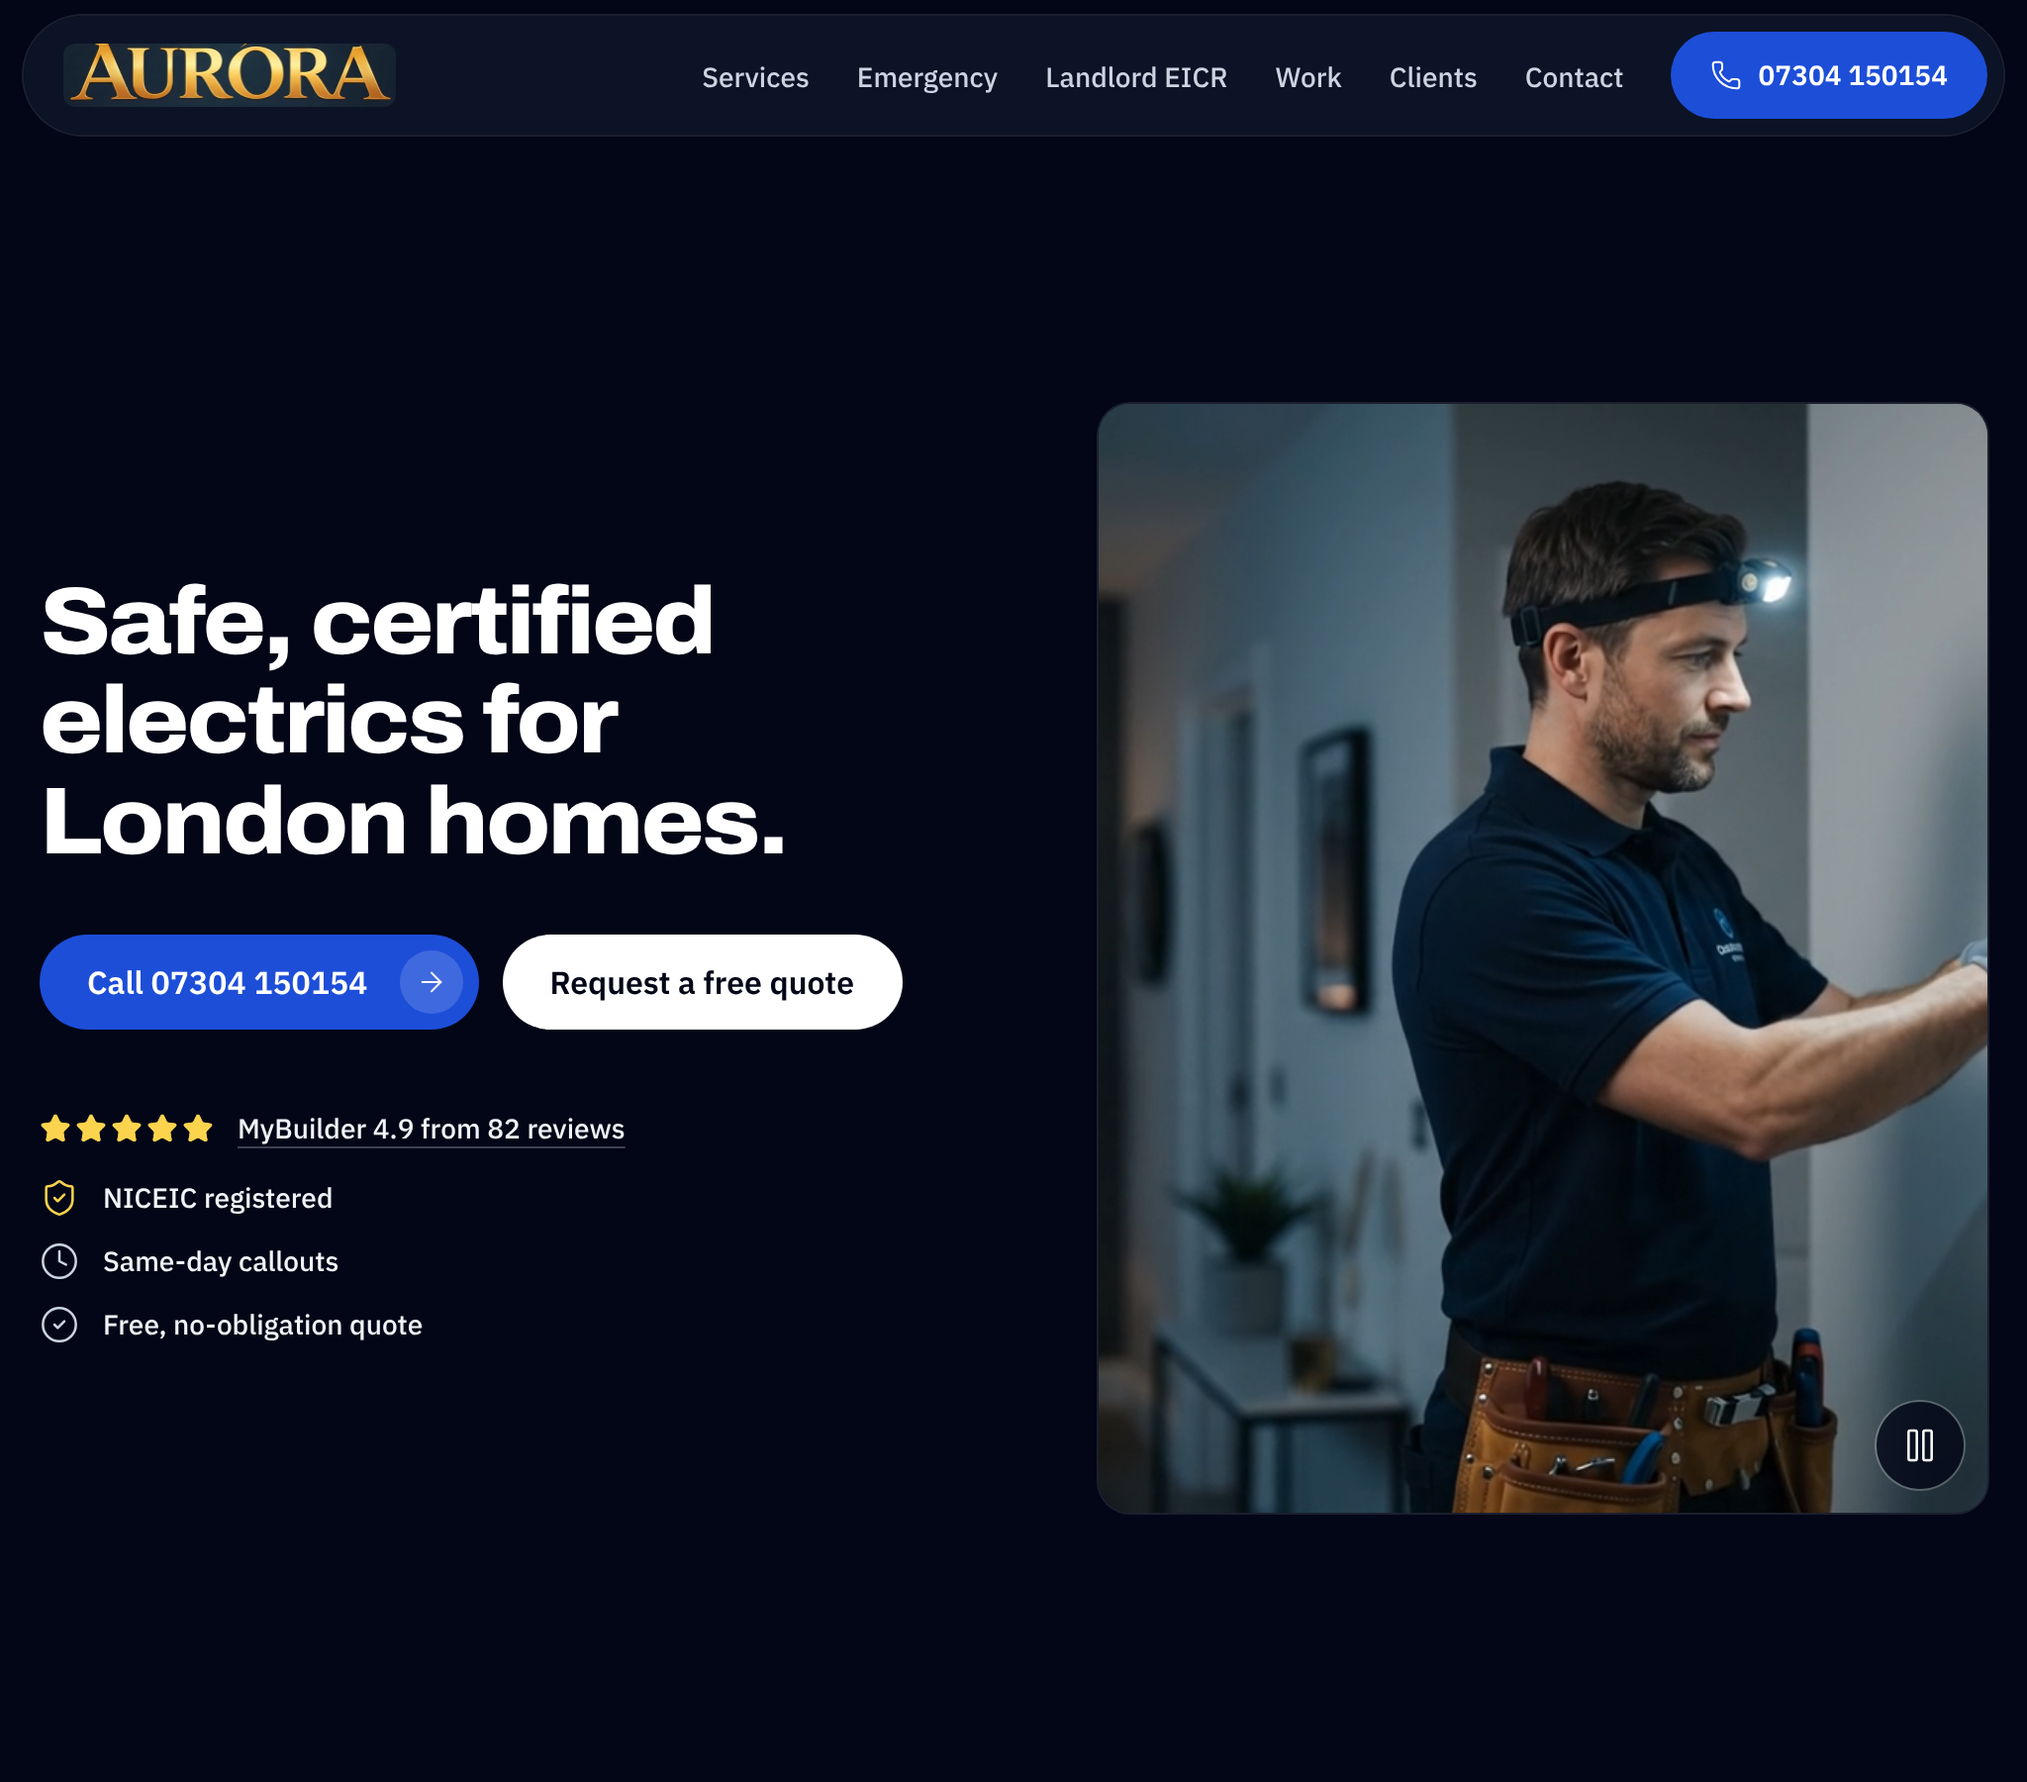
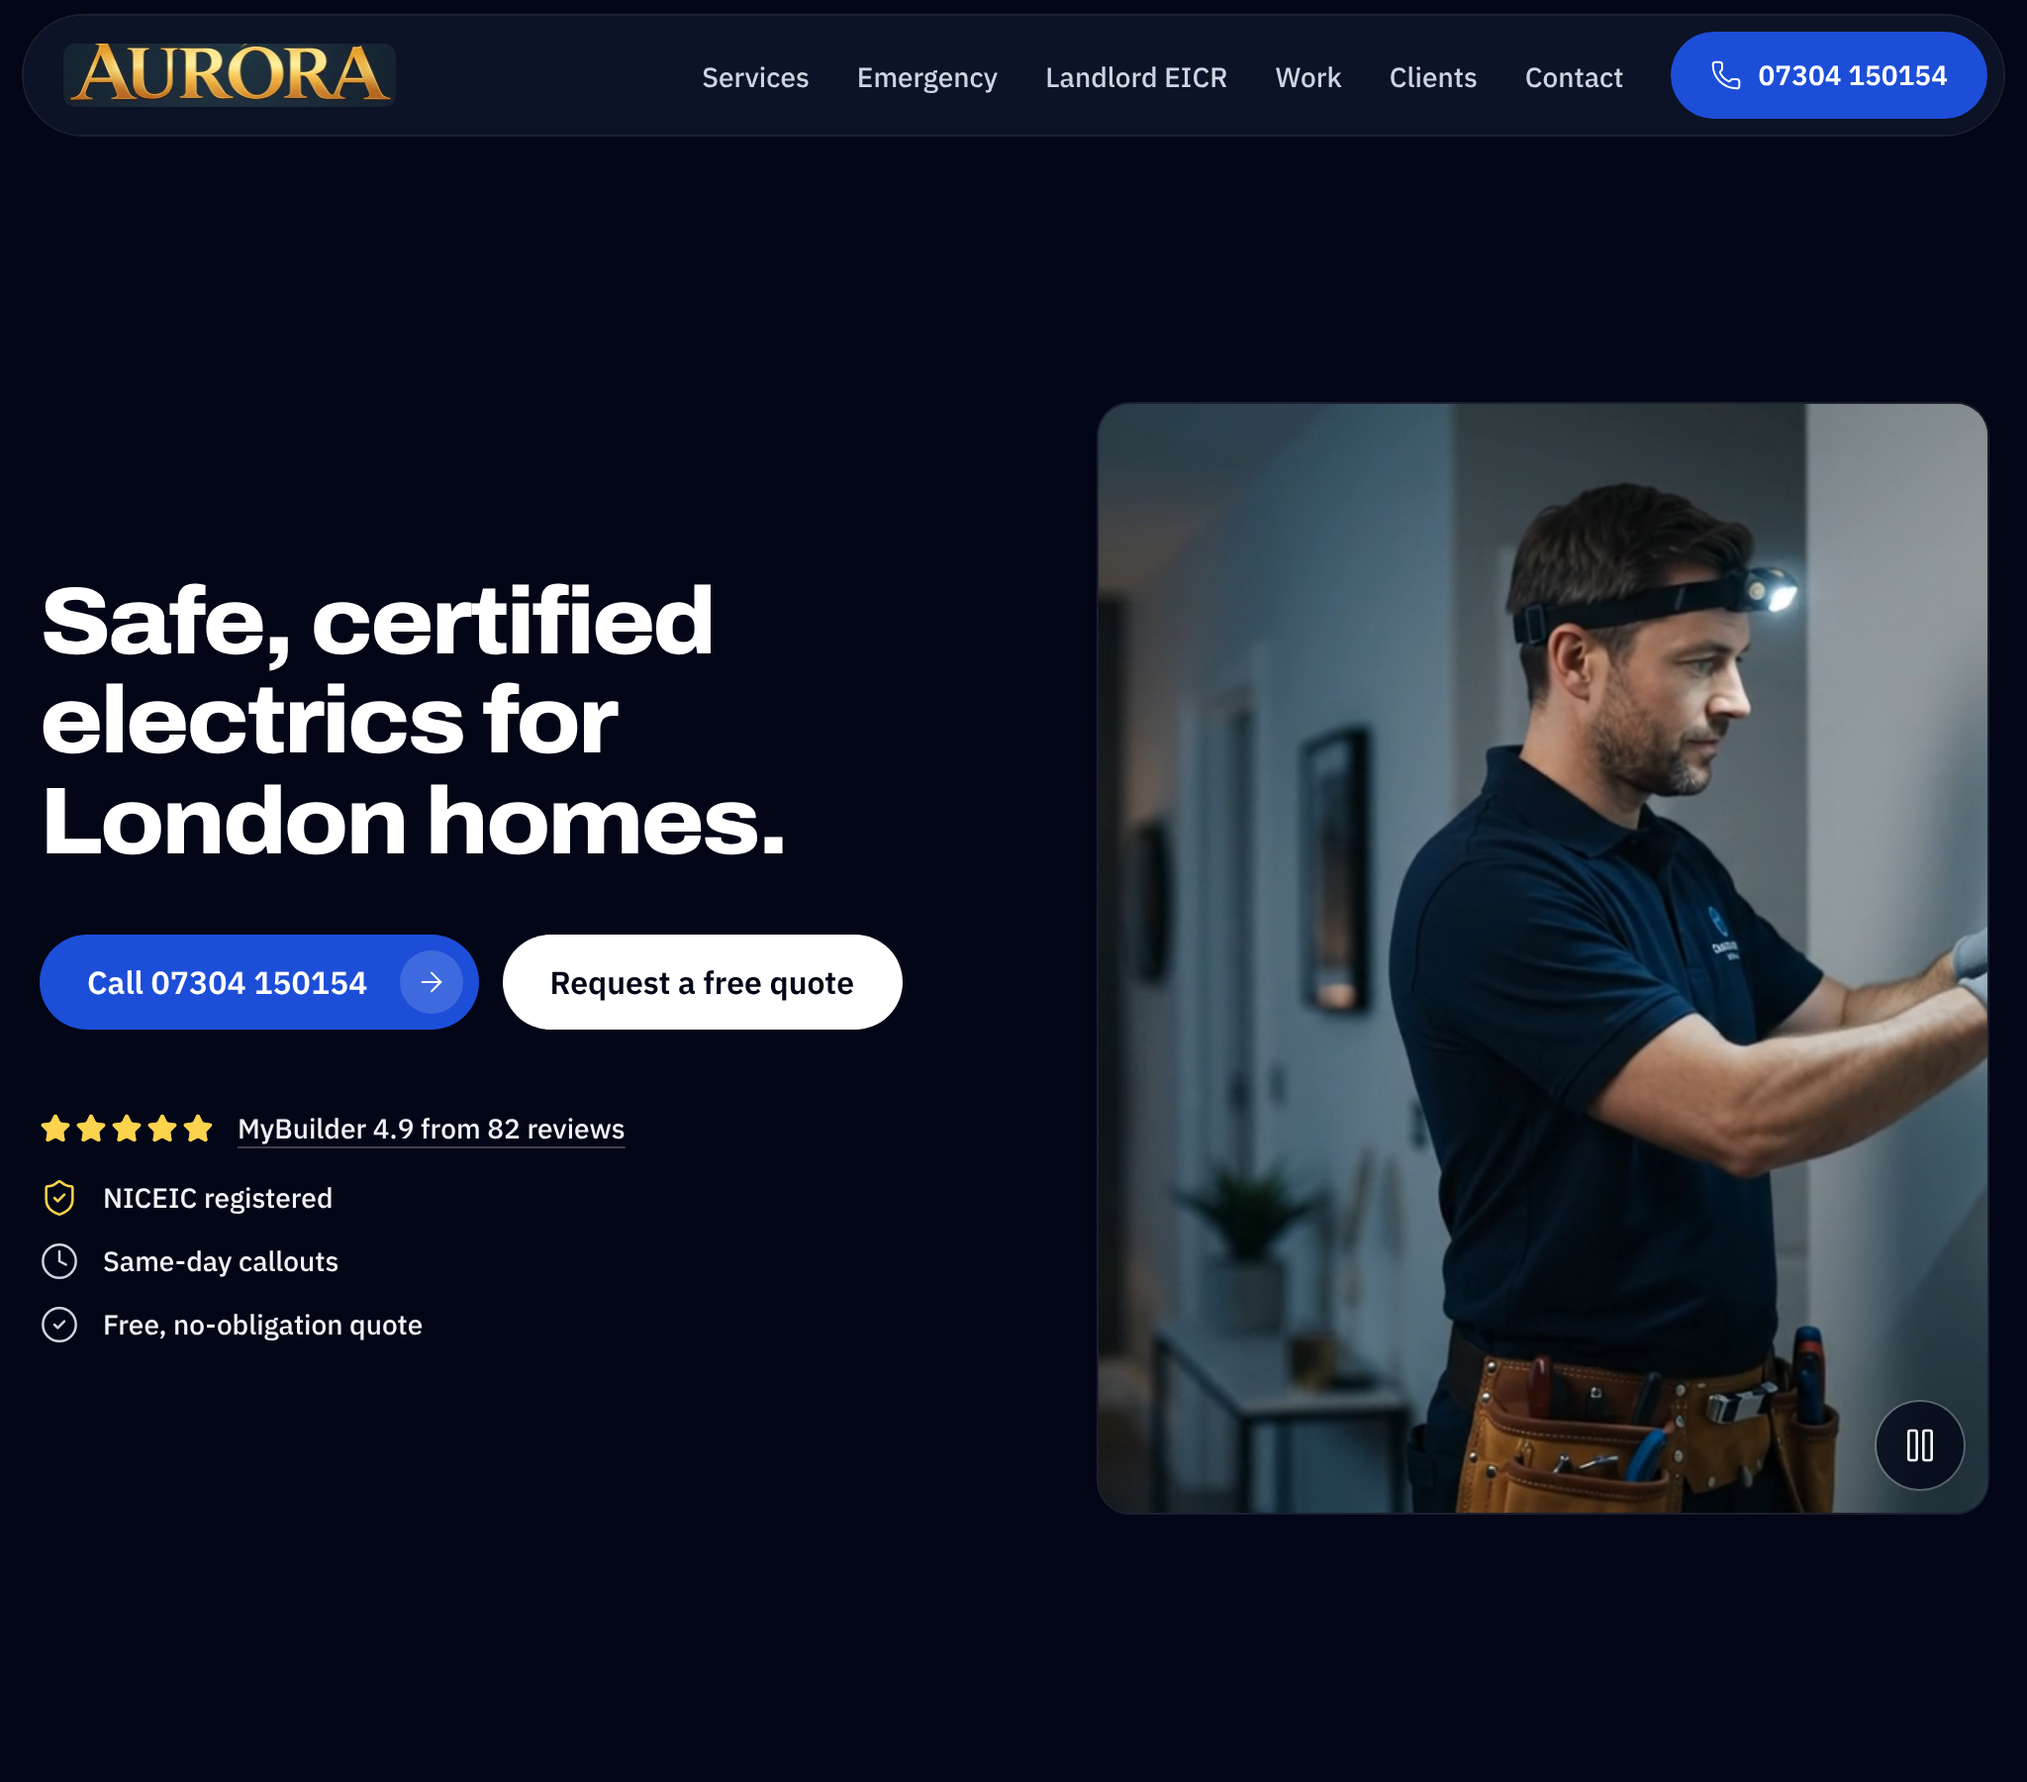
fix: independent audit findings
- Menu lock covers everything beside the header (incl. sticky call bar)
  and lifts when the viewport widens past lg (menu closes)
- After Play, hover and focus pause the slideshows again once the pointer
  leaves or focus moves to another control
- Services: one column below lg, so no near-empty card at tablet width
- work-01 alt describes only what every crop shows
- Screenshots retaken

Claude-Session: https://claude.ai/code/session_01ALmsfokPxPmCVugr4C9aUo

diff --git a/components/Reviews.tsx b/components/Reviews.tsx
@@ -24,8 +24,10 @@ type Props = { reviews: Review[]; aggregateRating: string | null };
  *
  * One review at a time on the dark canvas. Advances every 6s; stops while
  * the pointer is over it, while focus is inside it, or after the pause
- * button; pressing play resumes at once. Reduced motion: no autoplay, the first review holds, prev/next
- * still work. A new quote fades and rises 4px into place (250ms).
+ * button. Pressing play resumes at once; hover and focus pause it again
+ * once the pointer leaves or focus moves to another control. Reduced
+ * motion: no autoplay, the first review holds, prev/next still work. A new
+ * quote fades and rises 4px into place (250ms).
  */
 export function Reviews({ reviews, aggregateRating }: Props) {
   const [index, setIndex] = useState(0);
@@ -35,9 +37,12 @@ export function Reviews({ reviews, aggregateRating }: Props) {
   // null = the visitor has not chosen; fall back to their motion preference.
   const [choice, setChoice] = useState<boolean | null>(null);
   const paused = choice ?? reduced;
-  // An explicit Play (choice === false) wins over hover and focus: the button
-  // sits inside the region, so pressing it always leaves pointer or focus there.
-  const rotating = !paused && (choice === false || (!hovered && !focused)) && reviews.length > 1;
+  // Pressing Play resumes at once, although pointer and focus are still on the
+  // button inside the region. That override lasts until the pointer leaves,
+  // focus leaves, or focus moves to another control; then hover and focus
+  // pause the slideshow again as usual.
+  const [resumed, setResumed] = useState(false);
+  const rotating = !paused && (resumed || (!hovered && !focused)) && reviews.length > 1;
 
   // One timeout per slide, so a manual move restarts the full 6s.
   useEffect(() => {
@@ -59,10 +64,19 @@ export function Reviews({ reviews, aggregateRating }: Props) {
       <div
         className="mx-auto max-w-6xl px-5 py-16 sm:py-20"
         onMouseEnter={() => setHovered(true)}
-        onMouseLeave={() => setHovered(false)}
-        onFocus={() => setFocused(true)}
+        onMouseLeave={() => {
+          setHovered(false);
+          setResumed(false);
+        }}
+        onFocus={(e) => {
+          setFocused(true);
+          if (!e.target.hasAttribute("aria-pressed")) setResumed(false);
+        }}
         onBlur={(e) => {
-          if (!e.currentTarget.contains(e.relatedTarget)) setFocused(false);
+          if (!e.currentTarget.contains(e.relatedTarget)) {
+            setFocused(false);
+            setResumed(false);
+          }
         }}
       >
         <h2 className="text-3xl font-semibold tracking-tight text-ink">
@@ -141,7 +155,10 @@ export function Reviews({ reviews, aggregateRating }: Props) {
               {reviews.length > 1 && (
                 <button
                   type="button"
-                  onClick={() => setChoice(!paused)}
+                  onClick={() => {
+                    setResumed(paused);
+                    setChoice(!paused);
+                  }}
                   aria-label="Pause review slideshow"
                   aria-pressed={paused}
                   className={CONTROL}

diff --git a/components/WorkGallery.tsx b/components/WorkGallery.tsx
@@ -30,7 +30,8 @@ const ICON = { "aria-hidden": true, strokeWidth: 1.5, className: "size-5" } as c
 /**
  * One large panel, one photo at a time. Advances every 6s; stops while the
  * pointer is over it, while focus is inside it, or after the pause button.
- * Pressing play resumes at once, wherever the pointer and focus are.
+ * Pressing play resumes at once; hover and focus pause it again once the
+ * pointer leaves or focus moves to another control.
  * Reduced motion: no autoplay, the first photo holds, prev/next still work.
  * The dots are position indicators, not buttons: 19 dots at a 44px touch
  * target each cannot fit a phone width, so prev/next carry all interaction.
@@ -48,9 +49,12 @@ export function WorkGallery({ photos = PHOTOS }: { photos?: string[] }) {
   const [choice, setChoice] = useState<boolean | null>(null);
   const paused = choice ?? reduced;
   const count = deck.length;
-  // An explicit Play (choice === false) wins over hover and focus: the button
-  // sits inside the region, so pressing it always leaves pointer or focus there.
-  const rotating = !paused && (choice === false || (!hovered && !focused)) && count > 1;
+  // Pressing Play resumes at once, although pointer and focus are still on the
+  // button inside the region. That override lasts until the pointer leaves,
+  // focus leaves, or focus moves to another control; then hover and focus
+  // pause the slideshow again as usual.
+  const [resumed, setResumed] = useState(false);
+  const rotating = !paused && (resumed || (!hovered && !focused)) && count > 1;
 
   const go = (delta: number) =>
     setPos((p) => ({ prev: p.index, index: (p.index + delta + count) % count }));
@@ -96,10 +100,19 @@ export function WorkGallery({ photos = PHOTOS }: { photos?: string[] }) {
       <div
         className="mx-auto max-w-6xl px-5 py-16 sm:py-20"
         onMouseEnter={() => setHovered(true)}
-        onMouseLeave={() => setHovered(false)}
-        onFocus={() => setFocused(true)}
+        onMouseLeave={() => {
+          setHovered(false);
+          setResumed(false);
+        }}
+        onFocus={(e) => {
+          setFocused(true);
+          if (!e.target.hasAttribute("aria-pressed")) setResumed(false);
+        }}
         onBlur={(e) => {
-          if (!e.currentTarget.contains(e.relatedTarget)) setFocused(false);
+          if (!e.currentTarget.contains(e.relatedTarget)) {
+            setFocused(false);
+            setResumed(false);
+          }
         }}
       >
         <h2 className="text-3xl font-semibold tracking-tight text-ink">Recent work</h2>
@@ -150,7 +163,10 @@ export function WorkGallery({ photos = PHOTOS }: { photos?: string[] }) {
                 {count > 1 && (
                   <button
                     type="button"
-                    onClick={() => setChoice(!paused)}
+                    onClick={() => {
+                    setResumed(paused);
+                    setChoice(!paused);
+                  }}
                     aria-label="Pause photo slideshow"
                     aria-pressed={paused}
                     className={CONTROL}

diff --git a/components/Services.tsx b/components/Services.tsx
@@ -29,9 +29,9 @@ export function Services({ services, certificates }: Props) {
           commercial installation.
         </p>
 
-        {/* Visual order = site.md order at every width: 1 column below 768px;
-            2 at md; 3 at lg with the photo card spanning 2x2 in its own slot. */}
-        <ul className="mt-12 grid grid-cols-1 gap-3 md:grid-cols-2 lg:grid-cols-3">
+        {/* Visual order = site.md order at every width: 1 column below
+            1024px; 3 at lg with the photo card spanning 2x2 in its own slot. */}
+        <ul className="mt-12 grid grid-cols-1 gap-3 lg:grid-cols-3">
           {services.map((service) => {
             const featured = FEATURE.match.test(service);
             return (
@@ -47,9 +47,9 @@ export function Services({ services, certificates }: Props) {
                   <div className="relative min-h-64 flex-1">
                     <Image
                       src={FEATURE.src}
-                      alt="Open distribution board with labelled circuit breakers, beside cable trays of bundled cables"
+                      alt="Open distribution board with labelled circuit breakers"
                       fill
-                      sizes="(min-width: 1024px) 740px, (min-width: 768px) 50vw, 100vw"
+                      sizes="(min-width: 1024px) 740px, calc(100vw - 40px)"
                       className="object-cover"
                     />
                   </div>
@@ -67,7 +67,7 @@ export function Services({ services, certificates }: Props) {
 
           {/* Authored here, not in site.md: it needs an anchor the parser's
               plain service strings can't express. */}
-          <li className="md:col-span-2 lg:col-span-3">
+          <li className="lg:col-span-3">
             <a
               href="#eicr-pricing"
               className="group flex h-full min-h-20 items-center justify-between gap-6 rounded-[16px] bg-surface-raised p-6 ring-1 ring-hairline transition-colors duration-[160ms] ease-out hover-fine:bg-surface-high focus-visible:outline-2 focus-visible:outline-offset-2 focus-visible:outline-action-soft motion-reduce:transition-none"

diff --git a/components/Nav.tsx b/components/Nav.tsx
@@ -40,13 +40,24 @@ export function Nav({ businessName, phone, telLink }: Props) {
   const headerRef = useRef<HTMLElement | null>(null);
   const toggleRef = useRef<HTMLButtonElement | null>(null);
 
-  // While the menu is open the page behind it is out of reach: main and
-  // footer go inert, so pointer, Tab and screen readers stay in the header.
+  // While the menu is open the page behind it is out of reach: everything
+  // beside the header (main, footer, the sticky call bar) goes inert, so
+  // pointer, Tab and screen readers stay in the header. The menu exists only
+  // below lg, so widening past lg closes it and lifts the lock.
   useEffect(() => {
     if (!open) return;
-    const behind = Array.from(document.querySelectorAll<HTMLElement>("main, footer"));
+    const header = headerRef.current;
+    const behind = Array.from(header?.parentElement?.children ?? []).filter(
+      (el): el is HTMLElement => el instanceof HTMLElement && el !== header,
+    );
     behind.forEach((el) => (el.inert = true));
-    return () => behind.forEach((el) => (el.inert = false));
+    const wide = window.matchMedia("(min-width: 1024px)");
+    const onWide = () => wide.matches && setOpen(false);
+    wide.addEventListener("change", onWide);
+    return () => {
+      wide.removeEventListener("change", onWide);
+      behind.forEach((el) => (el.inert = false));
+    };
   }, [open]);
 
   useEffect(() => {
